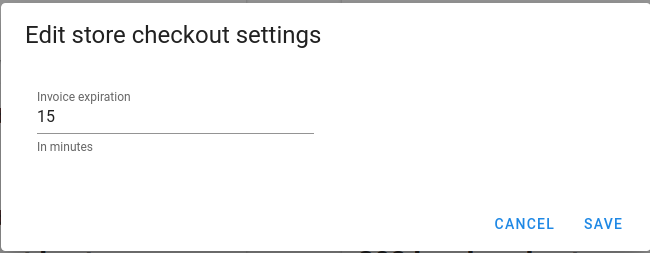
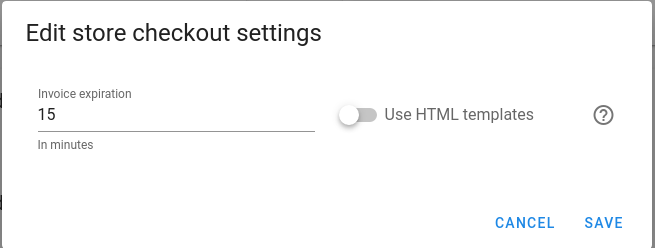
GitBook: [master] 3 pages and 2 assets modified

diff --git a/guides/templates.md b/guides/templates.md
@@ -12,7 +12,21 @@ The templates for an object are selected as per [template selection rules](../bi
 
 ![Store default templates](../.gitbook/assets/store_default_templates.png)
 
-## Notification
+## HTML templates
+
+In some places of BitcartCC, it is possible to render templates as html files instead of plain text.
+
+For example, in emails sent to customer on successful checkout, you could use default templates \(or customized a bit\) which are plain text, or instead, you could enable html template rendering and send your customers a beautiful email.
+
+Currently html template rendering is available only in [store emails sent to customer](../bitcartcc-basics/walkthrough.md#store-checkout-settings)
+
+**Note**: if you enable html template rendering, default templates or any plain text templates will now render incorrectly, without new lines. So ensure to check that template rendering templates match the templates themselves.
+
+You can check html templates examples [here](../examples/templates.md).
+
+## Available templates
+
+### Notification
 
 Notification template is used when building the message to be sent via all configured [notification providers](../bitcartcc-basics/walkthrough.md#notification-providers) to the merchant notifying of successful order \(to start shipping, for example\).
 
@@ -31,7 +45,7 @@ New order from {{ invoice.buyer_email }}
 
  An up-to-date version can always be found at this [link](https://github.com/bitcartcc/bitcart/blob/master/api/templates/notification.j2)
 
-## Shop
+### Shop
 
 Shop template is used when building the base message for a successful payment associated with a store. It may optionally include paid invoice products' templates.
 
@@ -57,7 +71,7 @@ Best wishes, your {{store.name}}.
 
 An up-to-date version can always be found at this [link](https://github.com/bitcartcc/bitcart/blob/master/api/templates/shop.j2)
 
-## Product
+### Product
 
 Product template is used when building the message for each individual product. Normally it is included as part of the main store message sent to the customer upon successful payment.
 

diff --git a/examples/templates.md b/examples/templates.md
@@ -6,5 +6,33 @@ Please read the [templates guide](../guides/templates.md) first.
 
 Here are some examples of ready templates.
 
-Examples are to be added soon.
+As plain text templates are pretty simple, we show complex html examples. Ensure to enable [html template rendering](../guides/templates.md#html-templates).
+
+**Note**: the templates contain a lot of boilerplate code to workaround different email clients rendering issues. All examples are self-contained and are ready to be used in production.
+
+They were generated by this [email template generator](https://emailbuilder.top) and modified to be actual templates.
+
+## Simple summary table
+
+![](../.gitbook/assets/example_template_1.png)
+
+This template is just a simple example of how to use html in your templates for better design. This example utilizes a table with some custom styles to display bought items.
+
+{% embed url="https://gist.github.com/MrNaif2018/29345d711181421753f1226366a39d36" %}
+
+`product.html` is the template that renders each individual product.
+
+We use some of the available variables to show the product price, quantity selected, and final calculated price. `store.default_currency` can be used to get product's currency.
+
+And in `shop.html` template \(containing most of the design\), we just use:
+
+```text
+{% for product in products %}
+{{product}}
+{% endfor %}
+```
+
+To include all products' rendered templates.
+
+And we also use `{{store.name}}` to display store name at the top.
 

diff --git a/bitcartcc-basics/walkthrough.md b/bitcartcc-basics/walkthrough.md
@@ -86,9 +86,12 @@ Your store is the main configuration point for all the futher actions with it, l
 
 You can configure different policies from your store settings.
 
+### Store checkout settings
+
 By clicking on settings icon, you will be presented with the store checkout settings pop-up, where you can change different settings affecting the checkout.
 
 * Invoice expiration time, in minutes. It affects the timer displayed in the checkout. It is the time in which the customer must send the payment, otherwise invoice is marked as expired
+* Use HTML templates - whether to render templates of email message sent to customer as html or as plain text. For more information, see this [guide](../guides/templates.md#html-templates).
 
 ![Store checkout settings](../.gitbook/assets/store_checkout_settings.png)
 
